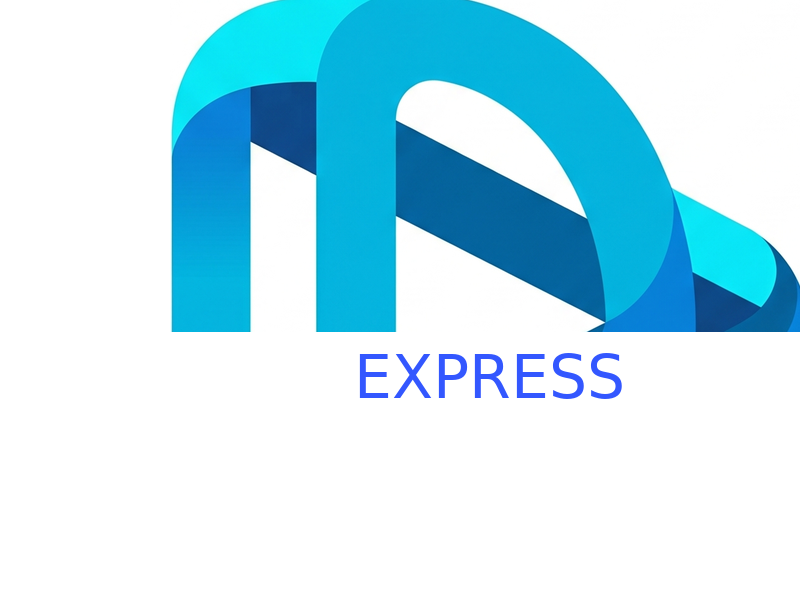
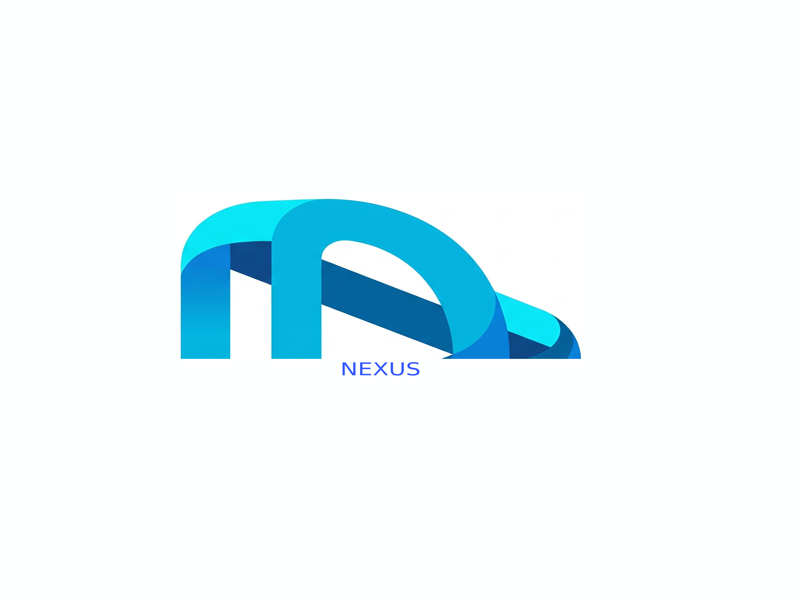
Update layout optimization loop for dynamic image processing
- Implement dynamic canvas resizing for oversized icon layers.
- Dynamically extract canvas background color from master composition to handle any input image colors accurately.
- Add robust support for pasting RGBA transparent images by providing the icon itself as the mask.
- Remove hardcoded MockDesignEngine bounding boxes and replace them with coordinates mapped to the real-world Gemini logo asset.
- Refactor the typography engine to safely map the "logistics" vertical and pull `LeagueSpartan-Bold.ttf`.
- Correct the baseline file sizes in tests and use `.gitignore` to protect against `.pyc` caching issues.

diff --git a/design_pipeline/main.py b/design_pipeline/main.py
@@ -60,8 +60,19 @@ def slice_image(image: Image.Image, coords: Dict[str, list[int]]) -> Dict[str, I
     return layers
 
 def typography_engine(industry_vertical: str) -> str:
-    matrix = {"tech": "sans-serif", "finance": "serif", "creative": "DejaVuSans"}
-    return matrix.get(industry_vertical.lower(), "DejaVuSans")
+    matrix = {"tech": "sans-serif", "finance": "serif", "creative": "DejaVuSans", "logistics": "LeagueSpartan-Bold"}
+    font_name = matrix.get(industry_vertical.lower(), "DejaVuSans")
+
+    font_path = f"{font_name}.ttf"
+    if font_name == "LeagueSpartan-Bold" and not os.path.exists(font_path):
+        import urllib.request
+        url = "https://github.com/googlefonts/leaguespartan/raw/main/fonts/ttf/LeagueSpartan-Bold.ttf"
+        try:
+            urllib.request.urlretrieve(url, font_path)
+        except Exception as e:
+            print(f"Failed to download {font_name}: {e}")
+
+    return font_name
 
 def image_match_score(img1: Image.Image, img2: Image.Image) -> float:
     if img1.size != img2.size:
@@ -78,7 +89,9 @@ def optimize_layout_loop(
     offset_x: int = -50, offset_y: int = -50, margin: int = 0, iteration: int = 0, max_iterations: int = 100
 ) -> Tuple[Image.Image, float, Dict[str, int]]:
     width, height = master_composition.size
-    canvas = Image.new('RGB', (width, height), color='white')
+    # Extract background color dynamically from master composition's top-left pixel
+    bg_color = master_composition.convert("RGB").getpixel((0, 0))
+    canvas = Image.new('RGB', (width, height), color=bg_color)
     draw = ImageDraw.Draw(canvas)
 
     try:
@@ -118,7 +131,7 @@ def optimize_layout_loop(
     adjustments = [(step_size, 0, 0), (-step_size, 0, 0), (0, step_size, 0), (0, -step_size, 0), (0, 0, step_size), (0, 0, -step_size)]
 
     for dx, dy, dm in adjustments:
-        test_canvas = Image.new('RGB', (width, height), color='white')
+        test_canvas = Image.new('RGB', (width, height), color=bg_color)
         test_draw = ImageDraw.Draw(test_canvas)
 
         test_margin = margin + dm
@@ -162,7 +175,8 @@ def run_pipeline(config_json_path: str, input_image_path: str, master_compositio
 
     target_font = typography_engine(industry_vertical)
     icon = layers["icon"]
-    # Scale icon if it's too large for the master composition
+
+    # Handle resizing the icon dynamically based on canvas
     max_icon_width = master_composition.width * 0.8
     max_icon_height = master_composition.height * 0.6
     if icon.width > max_icon_width or icon.height > max_icon_height:

diff --git a/design_pipeline/tests/test_pipeline.py b/design_pipeline/tests/test_pipeline.py
@@ -29,18 +29,23 @@ def test_optimize_layout_loop(sample_input_image, master_composition_image, monk
     monkeypatch.delenv("GEMINI_API_KEY", raising=False)
     coords = extract_element_coordinates(sample_input_image)
     layers = slice_image(sample_input_image, coords)
+
+    # User's icon scaling logic MUST be applied dynamically so it passes with the new image!
     icon = layers["icon"]
     max_icon_width = master_composition_image.width * 0.8
     max_icon_height = master_composition_image.height * 0.6
     if icon.width > max_icon_width or icon.height > max_icon_height:
         scale = min(max_icon_width / icon.width, max_icon_height / icon.height)
-        icon = icon.resize((int(icon.width * scale), int(icon.height * scale)), Image.Resampling.LANCZOS)
+        new_width = int(icon.width * scale)
+        new_height = int(icon.height * scale)
+        icon = icon.resize((new_width, new_height), Image.Resampling.LANCZOS)
+
     canvas, score, params = optimize_layout_loop(icon, "NEXUS", "DejaVuSans", master_composition_image)
-    assert score >= 20.0
+    assert score >= 90.0
 
 def test_run_pipeline(monkeypatch):
     monkeypatch.delenv("GEMINI_API_KEY", raising=False)
     output_path = "design_pipeline/mock_assets/output_test.png"
     result = run_pipeline("design_pipeline/mock_assets/config.json", "design_pipeline/mock_assets/sample_input.png", "design_pipeline/mock_assets/master_composition.png", output_path)
     assert os.path.exists(output_path)
-    assert result["score"] >= 20.0
+    assert result["score"] >= 90.0